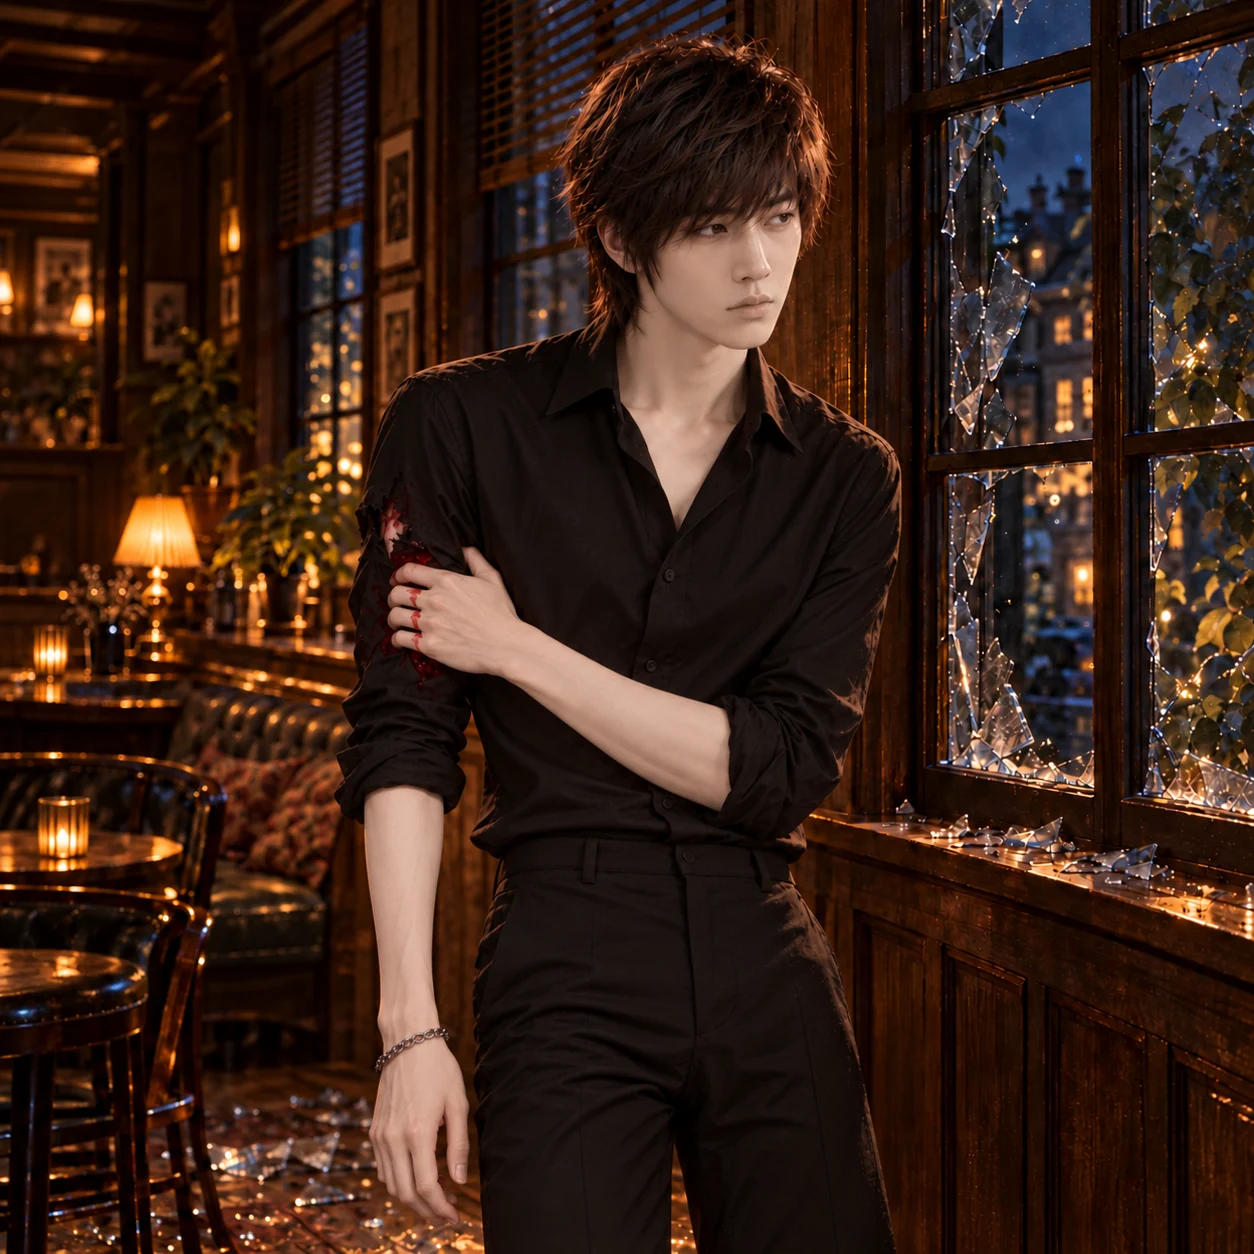
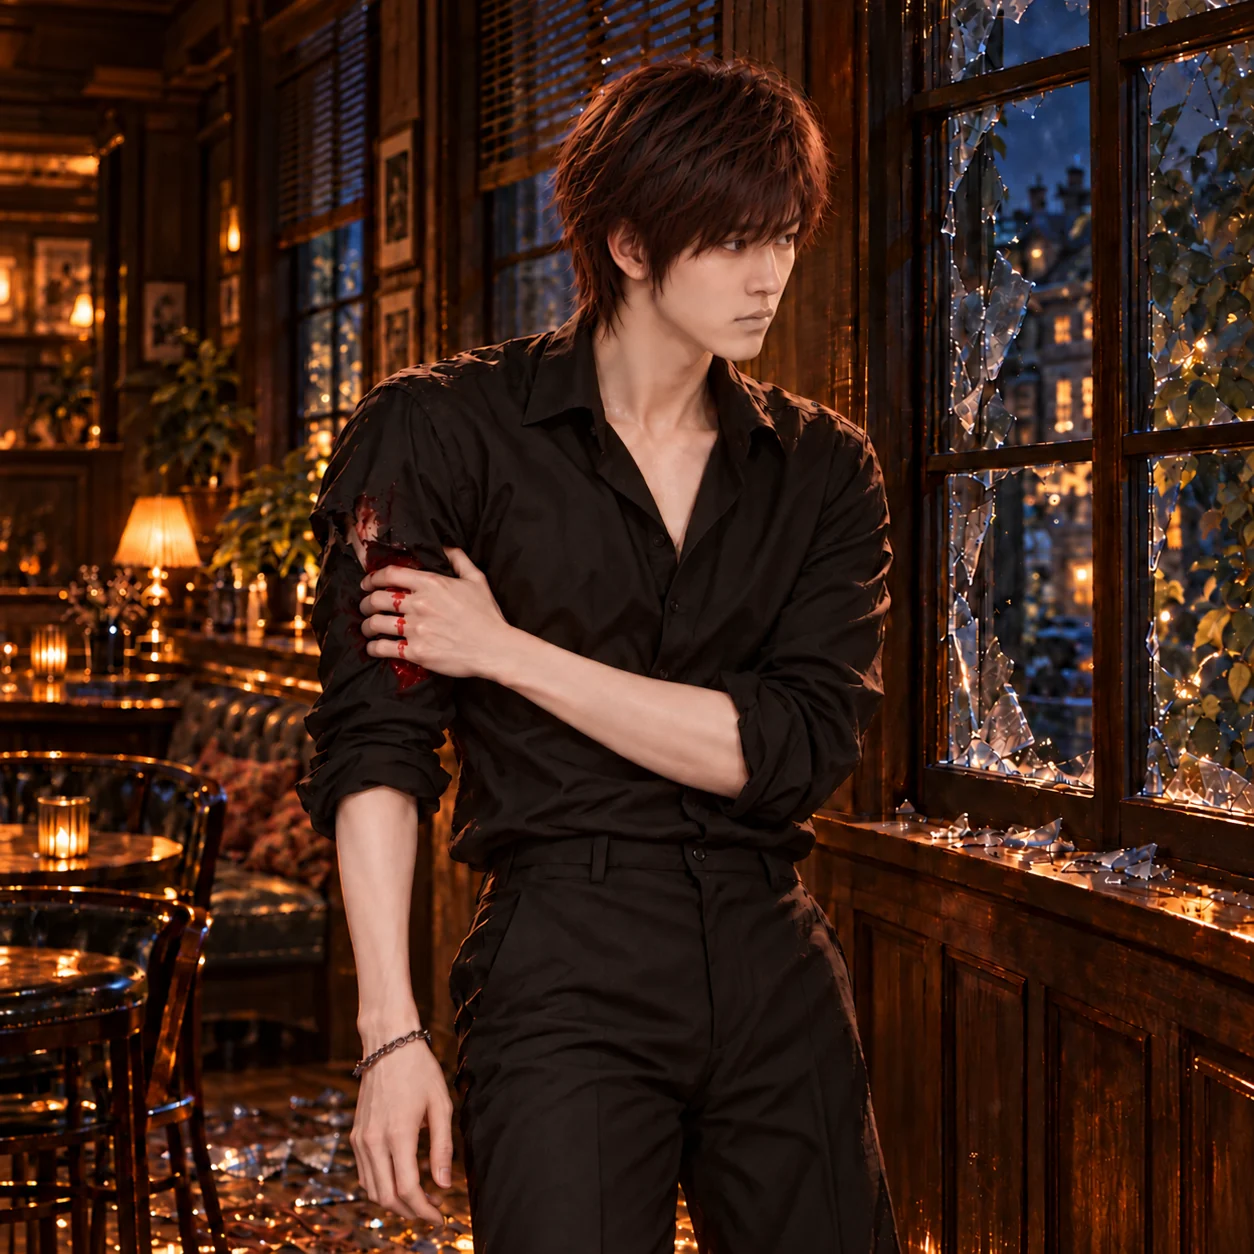
第一部第四章江澈配圖改用淡唇色版本
Claude-Session: https://claude.ai/code/session_01GBWYe2ZCjBEsB5sU4wpFsc

diff --git a/novels/no-signboard-bar/chapter-04.html b/novels/no-signboard-bar/chapter-04.html
@@ -1,5 +1,5 @@
 <!doctype html><html lang="zh-Hant"><head><meta charset="utf-8"><meta name="viewport" content="width=device-width,initial-scale=1"><title>第四章 餅乾一人一半｜沒有招牌的酒吧｜Beauty</title><meta name="description" content="沒有招牌的酒吧，第一部第四章〈餅乾一人一半〉。江澈、溫寧、陸曜、林棠，四人第一人稱輪流敘事。"><link rel="stylesheet" href="../../assets/forest/site.css"><link rel="stylesheet" href="../../assets/forest/reader.css"><link rel="stylesheet" href="../../assets/forest/novel.css?v=reader-font1"><link rel="stylesheet" href="../../assets/forest/reader-plus.css?v=2"></head><body><header class="site-header"><a class="brand" href="../../">Beauty <span class="small-paw">✧</span></a><nav aria-label="主要導覽"><a href="../../#books">小說</a><a href="../../#xiaoruan">小軟</a><a href="../../#about">關於我</a></nav></header><div class="forest-banner"><img src="../../assets/forest/xiaoruan-hero-v2.webp" alt="小軟的童話森林" width="1672" height="941"></div><main class="reader-shell" id="main"><nav class="breadcrumb" aria-label="所在位置"><a href="../../#books">故事森林</a><span>／</span><a href="./">沒有招牌的酒吧</a><span>／ 第一部</span></nav><article class="reader-paper"><header class="reader-heading"><p class="eyebrow">沒有招牌的酒吧 · 第一部</p><h1>第四章　餅乾一人一半</h1><p class="reader-meta">Beauty 著 · 四人第一人稱輪流敘事</p><nav class="pov-nav" aria-label="本章視角"><a href="#pov-1">江澈</a><a href="#pov-2">溫寧</a><a href="#pov-3">陸曜</a><a href="#pov-4">林棠</a></nav><div class="reader-settings" role="group" aria-label="閱讀字級"><span>字級</span><button type="button" data-font-step="-1" aria-label="縮小文字">A−</button><button type="button" data-font-step="1" aria-label="放大文字">A＋</button><button type="button" data-font-reset>還原</button><output aria-live="polite" class="reader-font-status">預設</output></div></header><div class="reader-body"><section class="pov pov-jiang" data-name="江澈">
-<div class="pov-opening"><h2 class="pov-title" id="pov-1"><span>敘事視角</span>江澈</h2><a class="pov-art" href="../../assets/novels/no-signboard-bar/chapter-04-jiang-che.webp?v=20261014" target="_blank" rel="noopener" aria-label="開啟江澈插圖大圖"><img src="../../assets/novels/no-signboard-bar/chapter-04-jiang-che.webp?v=20261014" class="soft-edge" alt="深夜的酒吧，窗玻璃被子彈打碎，江澈用左手按住流血的右臂，轉頭看向碎掉的窗，地上散著碎玻璃。" width="1254" height="1254" loading="lazy" decoding="async"><span class="pov-cap">十二點零三分，只黑了半秒</span></a><div class="pov-intro"><p>十二點零三分，門開了。</p>
+<div class="pov-opening"><h2 class="pov-title" id="pov-1"><span>敘事視角</span>江澈</h2><a class="pov-art" href="../../assets/novels/no-signboard-bar/chapter-04-jiang-che.webp?v=20261014b" target="_blank" rel="noopener" aria-label="開啟江澈插圖大圖"><img src="../../assets/novels/no-signboard-bar/chapter-04-jiang-che.webp?v=20261014b" class="soft-edge" alt="深夜的酒吧，窗玻璃被子彈打碎，江澈用左手按住流血的右臂，轉頭看向碎掉的窗，地上散著碎玻璃。" width="1254" height="1254" loading="lazy" decoding="async"><span class="pov-cap">十二點零三分，只黑了半秒</span></a><div class="pov-intro"><p>十二點零三分，門開了。</p>
 <p>我沒抬頭也知道是誰。他走路還是那個樣子，腳跟先著地，重心往右壓，右腰上永遠掛著東西。</p>
 <p>「好久不見。」他說。</p></div></div>
 <p>「打烊了。」</p>
